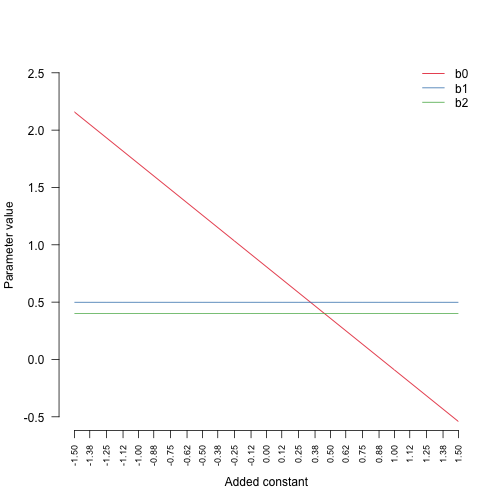
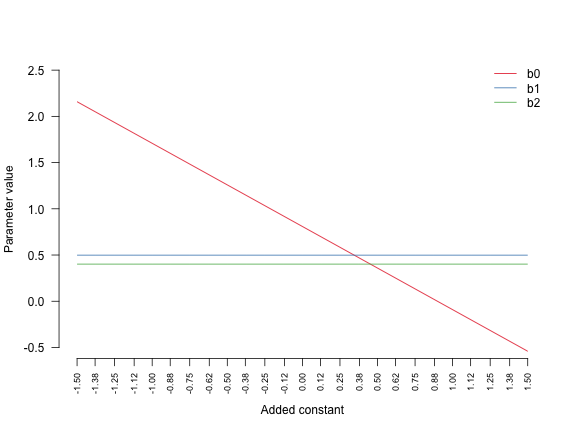
update moderation blogpost3

diff --git a/_posts/2018-05-05-CenteringPredictors.md b/_posts/2018-05-05-CenteringPredictors.md
@@ -16,11 +16,6 @@ We give an explanation on two levels:
 1. By illustrating the issue with the simplest possible example
 2. By showing in general how main effects are a function of the constants (e.g. means) that are substracted from predictor variables
 
-<script type="text/javascript" async
-src="https://cdn.mathjax.org/mathjax/latest/MathJax.js?config=TeX-MML-AM_CHTML">
-</script>
-
-
 ## Explanation 1: Simplest example
 
 The simplest possible example to illustrate the issue is a regression model in which variable $Y$ is a linear function of variables $X_1$, $X_2$, and their product $X_1X_2$
@@ -235,9 +230,7 @@ title(xlab = "Added constant")
 title(ylab = "Parameter value")
 {% endhighlight %}
 
-![plot of chunk unnamed-chunk-8](/assets/img/2018-05-05-CenteringPredictors.Rmd/unnamed-chunk-8-1.png)
-
-![center](http://jmbh.github.io/figs/CenteringPredictors/Centering_Fig1.png) 
+<img src="/assets/img/2018-05-05-CenteringPredictors.Rmd/unnamed-chunk-8-1.png" title="plot of chunk unnamed-chunk-8" alt="plot of chunk unnamed-chunk-8" style="display: block; margin: auto;" />
 
 We see that the intercept changes as a function of `c`. The model at `c = 0` corresponds to the very first model we fitted above. And the model at `c = -1` corresponds to the model fitted with centered predictors. But the key observation is that the main effects $\beta_1, \beta_2$ do not change. A proof of this and an exact expression for the intercept will fall out of our analysis of the model with interaction term in the last section of this blogpost.
 
